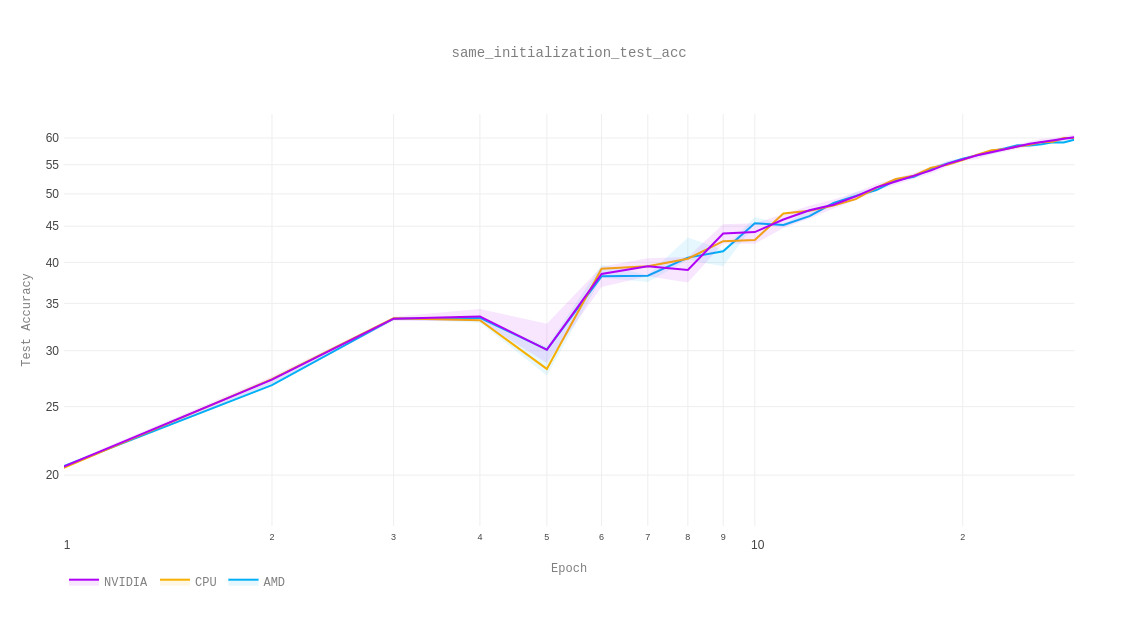
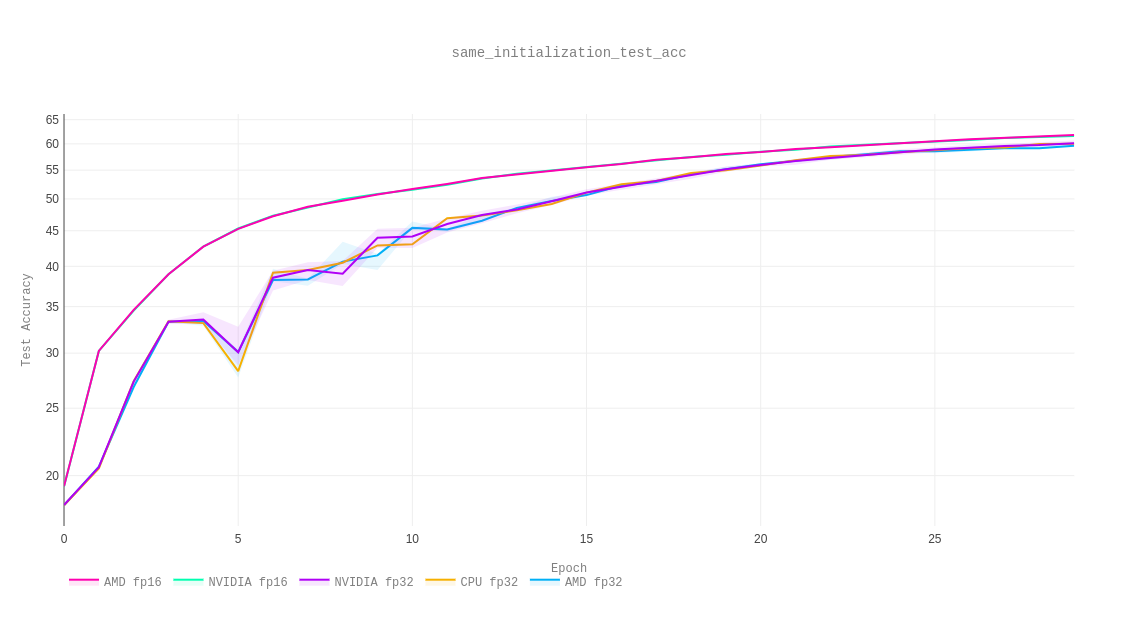
add more archs

diff --git a/reproducibility/plot.py b/reproducibility/plot.py
@@ -44,7 +44,7 @@ def plot_lines(lines: List[List[go.Scatter]], graph_name='test', y_name='Objecti
             )
         ),
         xaxis=go.layout.XAxis(
-            type='log',
+            # type='log',
             title=go.layout.xaxis.Title(
                 text='Epoch',
                 font=dict(
@@ -137,38 +137,61 @@ def get_curve_with_error(db, name, metric='train_loss', color=(0, 176, 246)):
     )
     return [lower_bound, mean, upper_bound]
 
+
 color_palette = [
-    (0,  176, 246),
-    (246, 176, 0),
+    (0,  176, 246),  # 0
+    (246, 176, 0),   # 1
 
-    (176, 0, 246),
-    (176, 246, 0),
+    (176, 0, 246),   # 2
+    (176, 246, 0),   # 3
 
-    (0, 256, 176),
-    (256, 0, 176),
+    (0, 256, 176),   # 4
+    (256, 0, 176),   # 5
 ]
 
 metric = 'test_acc'
 
 for m, name in [('test_acc', 'Test Accuracy'), ('train_loss', 'Train Loss'), ('test_loss', 'Test Loss')]:
 
-    amd_2 = get_curve_with_error(f'{BASE}/results/amd_2.json', name=f'AMD', metric=m, color=color_palette[0])
-    cpu_2 = get_curve_with_error(f'{BASE}/results/cpu_2.json', name=f'CPU', metric=m, color=color_palette[1])
-    nvidia_2 = get_curve_with_error(f'{BASE}/results/nvidia_2.json', name=f'NVIDIA', metric=m, color=color_palette[2])
+    amd_2 = get_curve_with_error(
+        f'{BASE}/results/amd_2.json', name=f'AMD fp32', metric=m, color=color_palette[0])
+
+    amd_2_fp16 = get_curve_with_error(
+        f'{BASE}/results/amd_fp16_2.json', name=f'AMD fp16', metric=m, color=color_palette[5])
+
+    cpu_2 = get_curve_with_error(
+        f'{BASE}/results/cpu_2.json', name=f'CPU fp32', metric=m, color=color_palette[1])
+
+    nvidia_2 = get_curve_with_error(
+        f'{BASE}/results/nvidia_2.json', name=f'NVIDIA fp32', metric=m, color=color_palette[2])
+
+    nvidia_2_fp16 = get_curve_with_error(
+        f'{BASE}/results/nvidia_p100_fp16_2.json', name=f'NVIDIA fp16', metric=m, color=color_palette[4])
 
     plot_lines(
-        [amd_2, cpu_2, nvidia_2],
+        [amd_2, cpu_2, nvidia_2, nvidia_2_fp16, amd_2_fp16],
         graph_name=f'different_initialization_{m}',
         y_name=name,
         folder=f'{BASE}/graphs'
     )
 
-    amd_1 = get_curve_with_error(f'{BASE}/results/amd_1.json', name=f'AMD', metric=m, color=color_palette[0])
-    cpu_1 = get_curve_with_error(f'{BASE}/results/cpu_1.json', name=f'CPU', metric=m, color=color_palette[1])
-    nvidia_1 = get_curve_with_error(f'{BASE}/results/nvidia_1.json', name=f'NVIDIA', metric=m, color=color_palette[2])
+    amd_1 = get_curve_with_error(
+        f'{BASE}/results/amd_1.json', name=f'AMD fp32', metric=m, color=color_palette[0])
+
+    amd_1_fp16 = get_curve_with_error(
+        f'{BASE}/results/amd_fp16_1.json', name=f'AMD fp16', metric=m, color=color_palette[5])
+
+    cpu_1 = get_curve_with_error(
+        f'{BASE}/results/cpu_1.json', name=f'CPU fp32', metric=m, color=color_palette[1])
+
+    nvidia_1 = get_curve_with_error(
+        f'{BASE}/results/nvidia_1.json', name=f'NVIDIA fp32', metric=m, color=color_palette[2])
+
+    nvidia_1_fp16 = get_curve_with_error(
+        f'{BASE}/results/nvidia_p100_fp16_1.json', name=f'NVIDIA fp16', metric=m, color=color_palette[4])
 
     plot_lines(
-        [amd_1, cpu_1, nvidia_1],
+        [amd_1, cpu_1, nvidia_1, nvidia_1_fp16, amd_1_fp16],
         graph_name=f'same_initialization_{m}',
         y_name=name,
         folder=f'{BASE}/graphs'

diff --git a/reproducibility/convnets.py b/reproducibility/convnets.py
@@ -95,7 +95,11 @@ class ConvClassifier(nn.Module):
 
 
 # ----
-model = ConvClassifier(args.shape)
+if args.arch == 'convnet':
+    model = ConvClassifier(args.shape)
+else:
+    args.shape = (3, 224, 224)
+    model = models.__dict__[args.arch]()
 
 init_file = f'{WEIGHT_LOC}/{tag}_{args.seed}.init'
 if args.init is not None:
@@ -120,16 +124,12 @@ model, optimizer = amp.initialize(
     model,
     optimizer,
     enabled=args.opt_level != 'O0',
-#    cast_model_type=None,
-#    patch_torch_functions=True,
-#    keep_batchnorm_fp32=None,
-#    master_weights=None,
-#    loss_scale="dynamic",
     opt_level=args.opt_level
 )
 
 
 transform = transforms.Compose([
+    transforms.RandomResizedCrop(size=args.shape[1:]),
     transforms.ToTensor(),
     transforms.Normalize((0.5, 0.5, 0.5), (0.5, 0.5, 0.5))
 ])
@@ -175,9 +175,8 @@ def next_batch(batch_iter):
 
 def do_one_epoch(train_loader):
     batch_id = 0
-    epoch_loss = 0
-
     batch_iter = iter(train_loader)
+    epoch_items = []
 
     while True:
         with trial.chrono('train_batch_time'):
@@ -194,8 +193,7 @@ def do_one_epoch(train_loader):
                 output = model(input)
                 loss = criterion(output, target)
 
-                batch_loss = loss.item()
-                epoch_loss += batch_loss
+                epoch_items.append(loss.detach())
 
                 # trial.log_metrics(step=(epoch * train_batch_count + batch_id), train_batch_loss=loss.item())
 
@@ -203,14 +201,15 @@ def do_one_epoch(train_loader):
                 optimizer.zero_grad()
 
                 with amp.scale_loss(loss, optimizer) as scaled_loss:
-                     scaled_loss.backward()
+                    scaled_loss.backward()
 
                 # loss.backward()
 
                 optimizer.step()
                 batch_id += 1
 
-    epoch_loss /= train_batch_count
+    count = len(epoch_items)
+    epoch_loss = sum([i.item() for i in epoch_items]) / count
     trial.log_metrics(step=epoch, train_loss=epoch_loss)
 
     return epoch_loss
